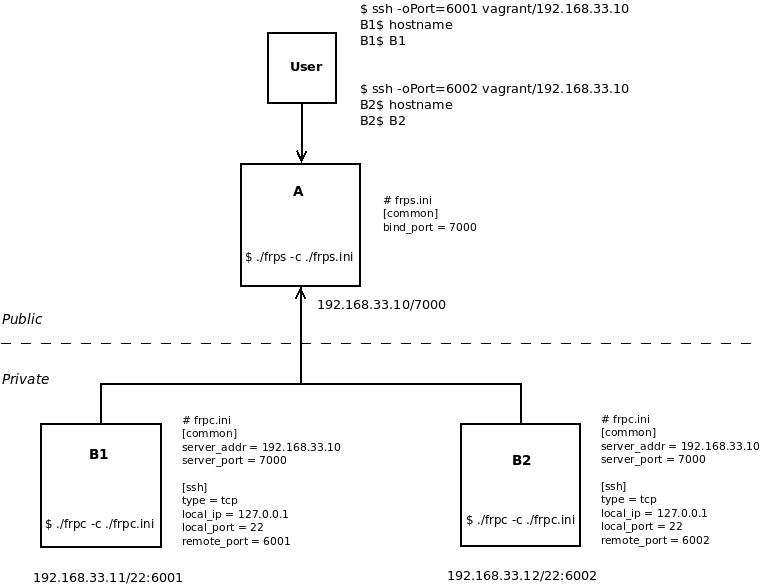
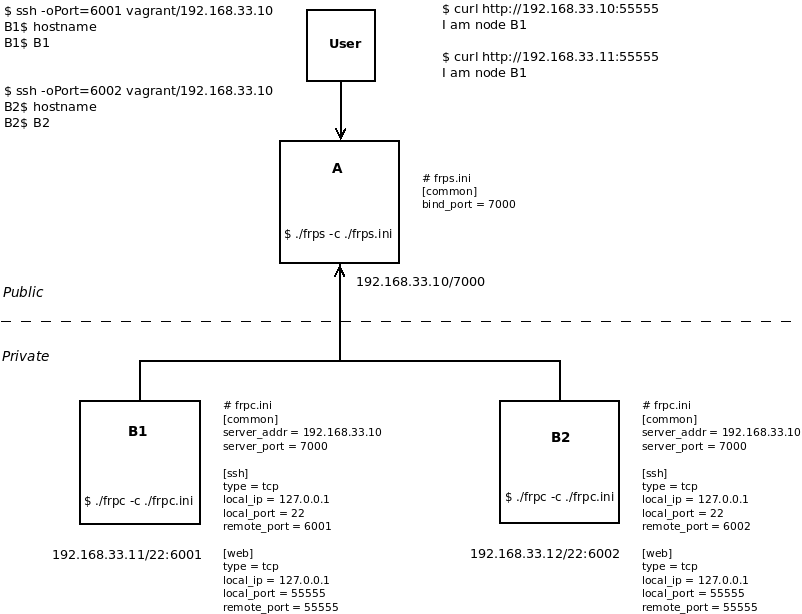
Added web server example

diff --git a/README.md b/README.md
@@ -18,5 +18,7 @@ To do this, please follow:
 - Open a new terminal and run: `$ ssh -oPort=6001 vagrant@192.168.33.10`, `vagrant/vagarnt` is username/password and `192.168.33.10` is the public address of A.
 - You should notice that you accessed B1 from A, to double check run: `vagrant@B1:~$ hostname`
 - You can do the same to access B2 from A, but run: `$ ssh -oPort=6002 vagrant@192.168.33.10`
+- Also, you can run a web service from B1 (or B2), for example to run a simple web server: `vagrant@B1:~$ docker compose -f /vagrant/docker-compose.yaml up -d`
+- From your machine you can access this server (running in B1) from A: `$ curl http://192.168.33.10:55555`
 - To stop the demo and remove the VMs, run: `$ vagrant destroy -f`
 
